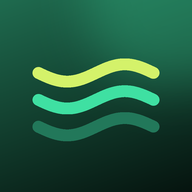
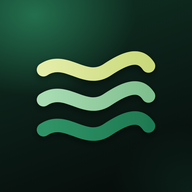
Widget de Scriptable e íconos con el nuevo estilo: vidrio, luz esmeralda y paleta de la app
Claude-Session: https://claude.ai/code/session_019sJgDXkEyhU9AtVj2vafkB

diff --git a/scriptable/Caudal-widget.js b/scriptable/Caudal-widget.js
@@ -1,6 +1,8 @@
 // Caudal — widget informativo para el iPhone (app gratuita "Scriptable").
-// Pantalla de inicio: Libre, cuánto alcanza al día, pago de la tarjeta, débito y cashback.
-// Pantalla bloqueada: el Libre y los días para pagar, sin desbloquear.
+// Estilo v2 "vidrio": fondo casi negro con luz esmeralda, datos en vidrio translúcido,
+// mismos colores que la app (hoja = lo libre, pistache = tarjeta y cashback, azul = débito).
+// Pantalla de inicio: Libre, pago de la tarjeta, débito y cashback.
+// Pantalla bloqueada: el Libre y el pago de la tarjeta, sin desbloquear.
 //
 // 1. Llena estas dos líneas (datos del menú Caudal de la hoja):
 const API = 'PEGA_AQUI_LA_DIRECCION_DE_LA_API';   // termina en /exec
@@ -13,12 +15,21 @@ const CLAVE = 'PEGA_AQUI_LA_CLAVE';
 // Para anotar gastos se usa el ícono "Anotar" (atajo), que corre sin abrir apps.
 // Tocar el widget lo actualiza al momento (abre Scriptable un instante).
 
+// Paleta de la app (v53)
+const C = {
+  hoja: '#93cf9f',      // lo libre, "vas bien"
+  pistache: '#d6e38f',  // tarjeta y cashback
+  azul: '#8fc3ea',      // débito
+  coral: '#f0908a',     // negativo / vencido
+};
+// Fondo: luz esmeralda arriba a la izquierda que cae a casi negro (como la tarjeta Libre).
 const ESTADOS = {
-  bien: { fondo: ['#1f6b4f', '#0a221a'], acento: '#3fe0a2', texto: 'Vas bien' },
-  bajo: { fondo: ['#44501a', '#151a08'], acento: '#d4f26a', texto: 'Queda poco' },
-  negativo: { fondo: ['#6e2a24', '#200c0b'], acento: '#ff6b5e', texto: 'Te pasaste' },
+  bien: { fondo: ['#1f6e4b', '#0f2a1f', '#080d0b'], acento: C.hoja, texto: 'Vas bien' },
+  bajo: { fondo: ['#5c6828', '#252b12', '#0a0c07'], acento: C.pistache, texto: 'Queda poco' },
+  negativo: { fondo: ['#7a362f', '#2e1512', '#0c0807'], acento: C.coral, texto: 'Te pasaste' },
 };
 const BLANCO = (a) => new Color('#ffffff', a == null ? 1 : a);
+const col = (hex, a) => new Color(hex, a == null ? 1 : a);
 
 function pesos(n) {
   const s = Math.abs(n).toFixed(2).replace(/\B(?=(\d{3})+(?!\d))/g, ',');
@@ -66,85 +77,116 @@ function texto(stack, t, font, color, extra) {
   return el;
 }
 
-/** Monto con centavos chicos y tenues. */
+function icono(stack, nombre, color, tam) {
+  const s = SFSymbol.named(nombre);
+  if (!s) return null;
+  s.applyFont(Font.semiboldSystemFont(tam));
+  const img = stack.addImage(s.image);
+  img.tintColor = color; img.imageSize = new Size(tam + 2, tam + 2);
+  return img;
+}
+
+/** Monto con centavos chicos y tenues (cifras en SF Pro, como Inter en la app). */
 function monto(stack, n, tam, conCentavos) {
   const fila = stack.addStack(); fila.bottomAlignContent();
   const s = pesos(n), i = s.lastIndexOf('.');
-  texto(fila, conCentavos ? s.slice(0, i) : sinCentavos(n), Font.boldRoundedSystemFont(tam), BLANCO(), { minimumScaleFactor: 0.5 });
-  if (conCentavos) texto(fila, s.slice(i), Font.boldRoundedSystemFont(Math.round(tam * 0.5)), BLANCO(0.55));
+  texto(fila, conCentavos ? s.slice(0, i) : sinCentavos(n), Font.boldSystemFont(tam), BLANCO(), { minimumScaleFactor: 0.5 });
+  if (conCentavos) texto(fila, s.slice(i), Font.boldSystemFont(Math.round(tam * 0.48)), BLANCO(0.7));
   return fila;
+}
+
+/** Vidrio: blanco translúcido con un filo de luz, como las tarjetas de la app. */
+function vidrio(stack, radio) {
+  stack.backgroundColor = BLANCO(0.08);
+  stack.borderColor = BLANCO(0.12); stack.borderWidth = 1;
+  stack.cornerRadius = radio;
 }
 
 function pastilla(stack, est) {
   const p = stack.addStack();
-  p.backgroundColor = new Color('#000000', 0.22); p.cornerRadius = 9; p.setPadding(3, 8, 3, 8); p.centerAlignContent();
-  texto(p, '● ', Font.systemFont(8), new Color(est.acento));
+  vidrio(p, 10); p.setPadding(3, 8, 3, 9); p.centerAlignContent();
+  texto(p, '●', Font.systemFont(7), col(est.acento));
+  p.addSpacer(4);
   texto(p, est.texto, Font.semiboldSystemFont(11), BLANCO());
 }
 
-function lineaPago(r) {
-  if (r.por_pagar > 0) return (r.dias_para_pagar < 0 ? 'Tarjeta vencida: ' + sinCentavos(r.por_pagar) : 'Pagar ' + sinCentavos(r.por_pagar) + ' ' + plazo(r));
-  if (r.deuda_tarjeta > 0) return 'Próximo pago ' + sinCentavos(r.deuda_tarjeta);
-  return 'Tarjeta sin deuda';
+/** Lo que importa de la tarjeta, en las mismas palabras que la app. */
+function tarjeta(r) {
+  if (r.por_pagar > 0) {
+    const d = r.dias_para_pagar;
+    return {
+      titulo: d < 0 ? 'Tarjeta vencida' : 'Toca pagar',
+      valor: sinCentavos(r.por_pagar),
+      nota: plazo(r),
+      color: d <= 1 ? col(C.coral) : col(C.pistache),
+    };
+  }
+  if (r.deuda_tarjeta > 0) return { titulo: 'Nada que pagar aún', valor: sinCentavos(r.deuda_tarjeta), nota: '', color: BLANCO() };
+  return { titulo: 'Tarjeta', valor: 'Sin deuda', nota: '', color: col(C.hoja) };
 }
 
 /* ---------- pantalla de inicio ---------- */
 
 function chico(w, r, est) {
   const top = w.addStack(); top.centerAlignContent();
-  texto(top, 'Libre', Font.semiboldSystemFont(13), BLANCO(0.78));
+  texto(top, 'Libre para gastar', Font.semiboldSystemFont(12), BLANCO(0.82), { minimumScaleFactor: 0.8 });
   top.addSpacer();
-  texto(top, '●', Font.systemFont(10), new Color(est.acento));
-  w.addSpacer(4);
+  texto(top, '●', Font.systemFont(9), col(est.acento));
+  w.addSpacer(3);
   monto(w, r.libre, 30, false);
-  if (r.por_dia != null && r.libre > 0) { w.addSpacer(2); texto(w, 'Unos ' + sinCentavos(r.por_dia) + ' al día', Font.mediumSystemFont(12), BLANCO(0.8)); }
   w.addSpacer();
-  const urgente = r.por_pagar > 0 && r.dias_para_pagar <= 3;
-  texto(w, lineaPago(r), Font.semiboldSystemFont(12), urgente ? new Color('#ffcf8a') : BLANCO(0.85), { lineLimit: 2, minimumScaleFactor: 0.8 });
+  // Tarjeta en vidrio, abajo
+  const t = tarjeta(r);
+  const c = w.addStack(); c.layoutHorizontally(); c.centerAlignContent();
+  vidrio(c, 12); c.setPadding(6, 8, 6, 8);
+  icono(c, 'creditcard.fill', col(C.pistache), 11);
+  c.addSpacer(6);
+  const v = c.addStack(); v.layoutVertically();
+  texto(v, t.titulo + (t.nota ? ' · ' + t.nota : ''), Font.mediumSystemFont(10), BLANCO(0.75), { minimumScaleFactor: 0.7 });
+  texto(v, t.valor, Font.boldSystemFont(14), t.color, { minimumScaleFactor: 0.6 });
+  c.addSpacer();
 }
 
 function mediano(w, r, est) {
   const fila = w.addStack();
   // Izquierda: Libre
   const izq = fila.addStack(); izq.layoutVertically();
-  texto(izq, 'Libre para gastar', Font.semiboldSystemFont(13), BLANCO(0.78));
-  izq.addSpacer(4);
+  texto(izq, 'Libre para gastar', Font.semiboldSystemFont(13), BLANCO(0.82));
+  izq.addSpacer(3);
   monto(izq, r.libre, 34, true);
-  izq.addSpacer(6);
+  izq.addSpacer(7);
   pastilla(izq, est);
   izq.addSpacer();
-  if (r.por_dia != null && r.libre > 0) texto(izq, 'Unos ' + sinCentavos(r.por_dia) + ' al día', Font.mediumSystemFont(13), BLANCO(0.85));
 
-  fila.addSpacer();
-  // Derecha: datos en tarjetitas
+  fila.addSpacer(12);
+  // Derecha: datos en vidrio, cada uno con su color e ícono
   const der = fila.addStack(); der.layoutVertically();
-  const dato = (titulo, valor, color, nota) => {
-    const c = der.addStack(); c.layoutVertically(); c.size = new Size(128, 0);
-    c.backgroundColor = new Color('#000000', 0.22); c.cornerRadius = 12; c.setPadding(5, 9, 5, 9);
-    texto(c, titulo, Font.mediumSystemFont(10), BLANCO(0.65));
-    const v = c.addStack(); v.centerAlignContent();
-    texto(v, valor, Font.boldRoundedSystemFont(15), color || BLANCO(), { minimumScaleFactor: 0.6 });
-    if (nota) { v.addSpacer(4); texto(v, nota, Font.semiboldSystemFont(10), color || BLANCO(0.75), { minimumScaleFactor: 0.7 }); }
+  const dato = (simbolo, colorIco, titulo, valor, colorValor, nota) => {
+    const c = der.addStack(); c.centerAlignContent(); c.size = new Size(140, 0);
+    vidrio(c, 12); c.setPadding(5, 9, 5, 9);
+    icono(c, simbolo, colorIco, 11);
+    c.addSpacer(7);
+    const t = c.addStack(); t.layoutVertically();
+    texto(t, titulo, Font.mediumSystemFont(10), BLANCO(0.72), { minimumScaleFactor: 0.8 });
+    const v = t.addStack(); v.bottomAlignContent();
+    texto(v, valor, Font.boldSystemFont(14), colorValor || BLANCO(), { minimumScaleFactor: 0.6 });
+    if (nota) { v.addSpacer(4); texto(v, nota, Font.semiboldSystemFont(10), BLANCO(0.72), { minimumScaleFactor: 0.7 }); }
+    c.addSpacer();
     der.addSpacer(5);
   };
-  if (r.por_pagar > 0) {
-    const d = r.dias_para_pagar;
-    const color = d <= 1 ? new Color('#ff8a7e') : d <= 5 ? new Color('#ffcf8a') : null;
-    dato('Pagar tarjeta', sinCentavos(r.por_pagar), color, plazo(r));
-  } else {
-    if (r.deuda_tarjeta > 0) dato('Próximo pago', sinCentavos(r.deuda_tarjeta), null, 'nada vence hoy');
-    else dato('Tarjeta', 'Sin deuda', new Color('#3fe0a2'));
-  }
-  dato('En DiDi débito', sinCentavos(r.saldo_debito));
-  dato('Cashback del mes', sinCentavos(r.cashback_estimado || 0), new Color('#d4f26a'));
+  const t = tarjeta(r);
+  dato('creditcard.fill', col(C.pistache), t.titulo, t.valor, t.color, t.nota);
+  dato('wallet.pass.fill', col(C.azul), 'En DiDi débito', sinCentavos(r.saldo_debito));
+  dato('sparkles', col(C.pistache), 'Cashback del mes', sinCentavos(r.cashback_estimado || 0), col(C.pistache));
 }
 
 /* ---------- pantalla bloqueada ---------- */
 
 function bloqueoRect(w, r) {
   texto(w, 'LIBRE', Font.semiboldSystemFont(11), BLANCO(0.75));
-  texto(w, sinCentavos(r.libre), Font.boldRoundedSystemFont(22), BLANCO(), { minimumScaleFactor: 0.6 });
-  texto(w, r.por_pagar > 0 ? 'Tarjeta ' + sinCentavos(r.por_pagar) + ' · ' + plazo(r) : (r.por_dia != null && r.libre > 0 ? 'Unos ' + sinCentavos(r.por_dia) + ' al día' : lineaPago(r)),
+  texto(w, sinCentavos(r.libre), Font.boldSystemFont(22), BLANCO(), { minimumScaleFactor: 0.6 });
+  const t = tarjeta(r);
+  texto(w, r.por_pagar > 0 ? 'Tarjeta ' + t.valor + ' · ' + t.nota : 'En débito ' + sinCentavos(r.saldo_debito),
     Font.mediumSystemFont(12), BLANCO(0.85), { minimumScaleFactor: 0.7 });
 }
 
@@ -156,7 +198,7 @@ async function crear() {
   w.refreshAfterDate = new Date(Date.now() + 5 * 60 * 1000);
 
   if (datos.error) {
-    if (fam.indexOf('accessory') !== 0) w.backgroundColor = new Color('#0f1b16');
+    if (fam.indexOf('accessory') !== 0) w.backgroundColor = new Color('#0b100e');
     texto(w, fam === 'accessoryInline' ? 'Caudal sin conexión' : 'Caudal: no se pudo cargar', Font.semiboldSystemFont(13), BLANCO(), { lineLimit: 2 });
     return w;
   }
@@ -167,25 +209,25 @@ async function crear() {
   if (fam === 'accessoryCircular') {
     w.addAccessoryWidgetBackground = true;
     const t1 = w.addText('Libre'); t1.font = Font.semiboldSystemFont(10); t1.centerAlignText();
-    const t2 = w.addText(corto(r.libre)); t2.font = Font.boldRoundedSystemFont(15); t2.minimumScaleFactor = 0.5; t2.centerAlignText();
+    const t2 = w.addText(corto(r.libre)); t2.font = Font.boldSystemFont(15); t2.minimumScaleFactor = 0.5; t2.centerAlignText();
     return w;
   }
   if (fam === 'accessoryRectangular') { bloqueoRect(w, r); return w; }
 
   const g = new LinearGradient();
-  g.colors = [new Color(est.fondo[0]), new Color(est.fondo[1])]; g.locations = [0, 1];
-  g.startPoint = new Point(0, 0); g.endPoint = new Point(1, 1);
+  g.colors = est.fondo.map(h => new Color(h)); g.locations = [0, 0.48, 1];
+  g.startPoint = new Point(0, 0); g.endPoint = new Point(0.85, 1);
   w.backgroundGradient = g;
-  w.setPadding(14, 15, 12, 15);
+  w.setPadding(14, 15, 11, 15);
 
   if (fam === 'small') chico(w, r, est); else mediano(w, r, est);
 
   // Hora de la última actualización: así se sabe si las cifras están al día.
-  w.addSpacer(3);
+  w.addSpacer(4);
   const pie = w.addStack(); pie.centerAlignContent();
   const hora = datos.t ? new Date(datos.t) : new Date();
   const df = new DateFormatter(); df.locale = 'es_MX'; df.dateFormat = 'h:mm a';
-  texto(pie, (datos.viejo ? 'Sin conexión · ' : 'Actualizado ') + df.string(hora).replace('a. m.', 'a.m.').replace('p. m.', 'p.m.'), Font.mediumSystemFont(9), BLANCO(datos.viejo ? 0.75 : 0.5));
+  texto(pie, (datos.viejo ? 'Sin conexión · ' : 'Actualizado ') + df.string(hora).replace('a. m.', 'a.m.').replace('p. m.', 'p.m.'), Font.mediumSystemFont(9), datos.viejo ? col(C.pistache, 0.9) : BLANCO(0.6));
   return w;
 }
 

diff --git a/web/sw.js b/web/sw.js
@@ -1,5 +1,5 @@
 /* Caudal: guarda la app para que abra rápido y sin señal. Los datos siempre se piden a la hoja. */
-var VERSION = 'caudal-v53';
+var VERSION = 'caudal-v54';
 var ARCHIVOS = ['./', 'index.html', 'styles.css', 'app.js', 'calculos.js', 'config.js', 'manifest.webmanifest', 'icon-192.png', 'apple-touch-icon.png', 'fonts/inter-medium.woff2', 'fonts/inter-semibold.woff2', 'fonts/inter-bold.woff2'];
 
 self.addEventListener('install', function (e) {
